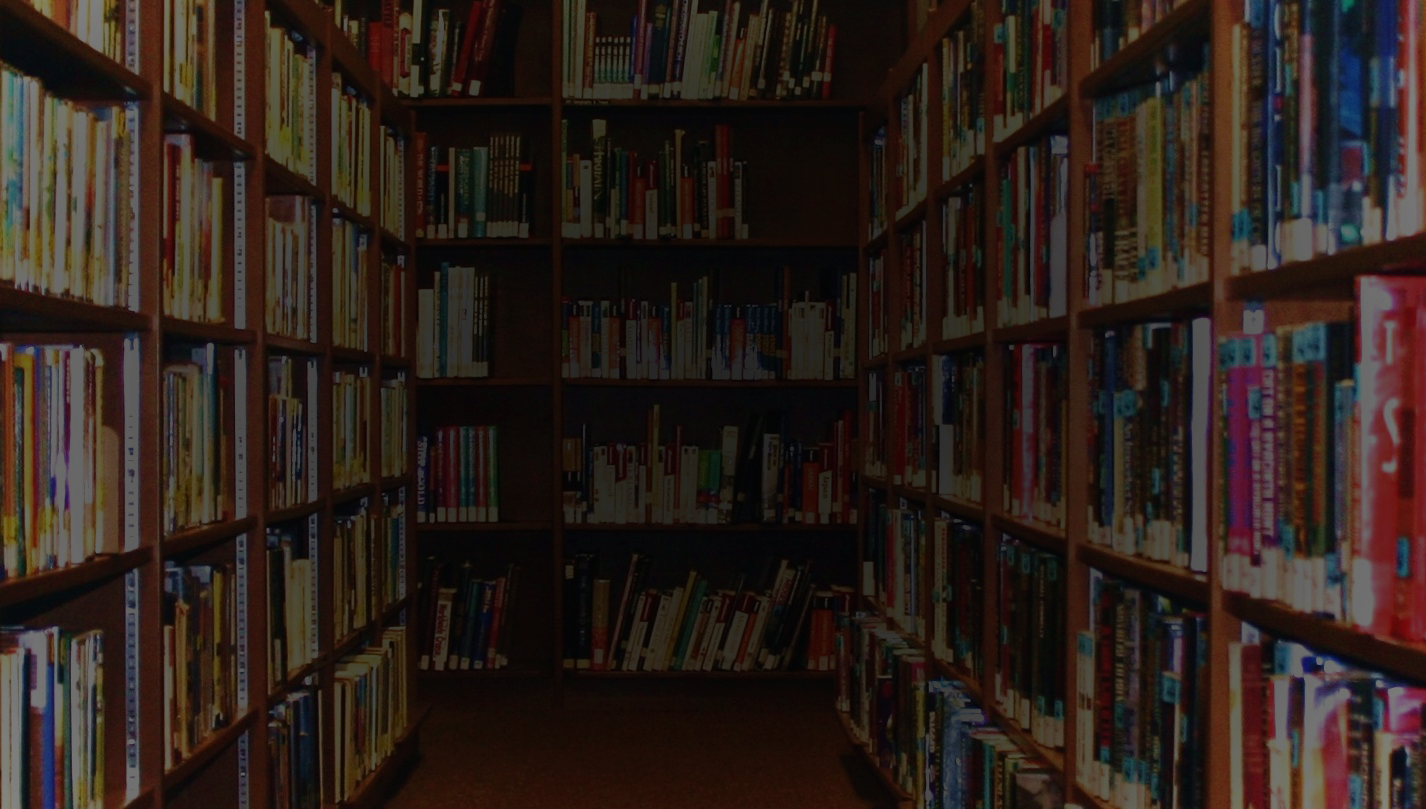
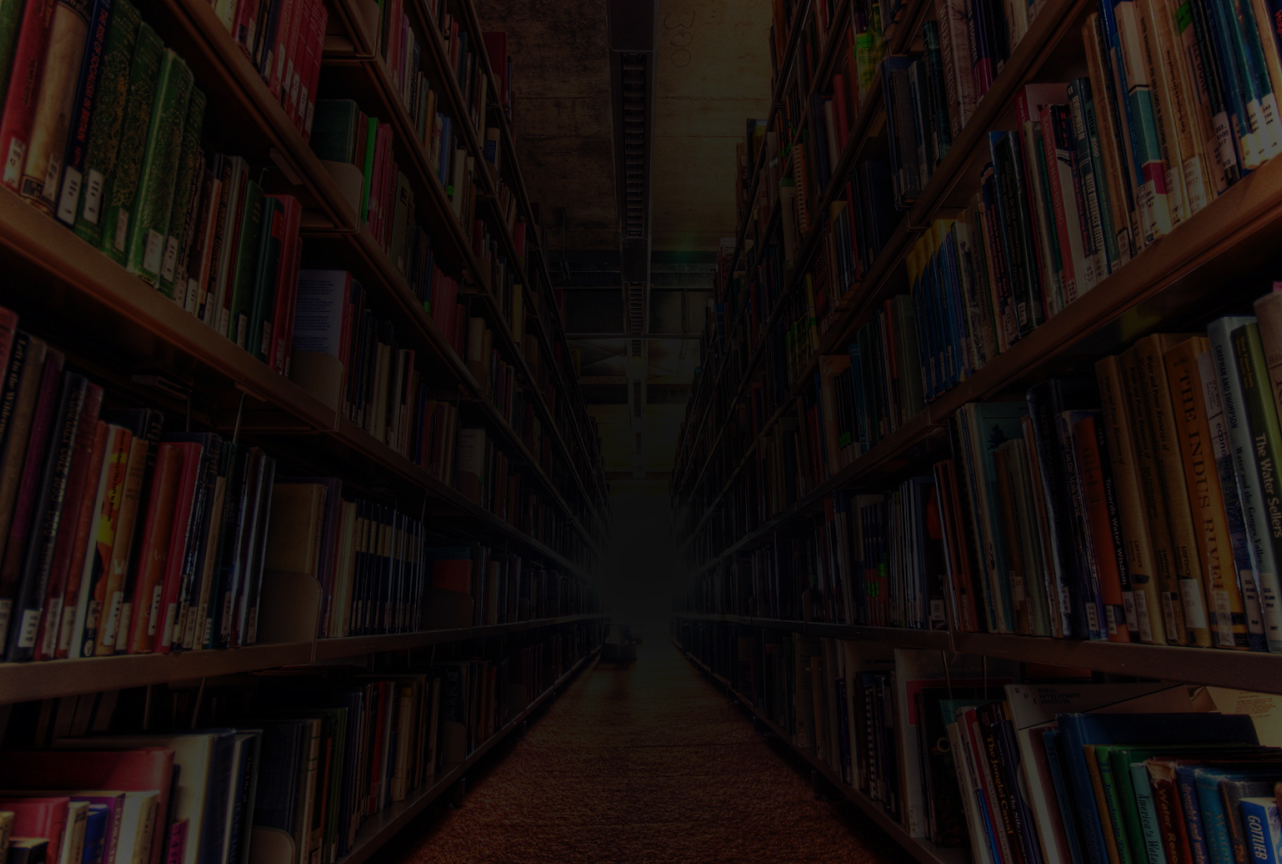
Second Commit

diff --git a/js/main.js b/js/main.js
@@ -59,10 +59,10 @@ searchBtn.addEventListener('click', function() {
 });
 
 
-// function goBack() {
-//   results.innerHTML = '';
-//   searcher.style.display = 'inline-block';
-// }
-//
-//
-// backBtn.addEventListener('click', goBack, false);
+function goBack() {
+  results.innerHTML = '';
+  searcher.style.display = 'inline-block';
+}
+
+
+backBtn.addEventListener('click', goBack, false);

diff --git a/index.html b/index.html
@@ -2,8 +2,9 @@
 <html>
   <head>
     <meta charset="utf-8">
+    <meta name="author" content="Enrique Novoa">
     <meta name="viewport" content="width=device-width, initial-scale=1.0">
-    <title>TITLE</title>
+    <title>Google Books Search</title>
 
     <link href="https://fonts.googleapis.com/css?family=Quicksand" rel="stylesheet">
     <!-- Latest compiled and minified CSS -->

diff --git a/css/main.css b/css/main.css
@@ -1,5 +1,5 @@
 body {
-  background: url('../img/library3.jpg') no-repeat center center fixed;
+  background: url('../img/library.jpg') no-repeat center center fixed;
   -webkit-background-size: cover;
   -moz-background-size: cover;
   -o-background-size: cover;
